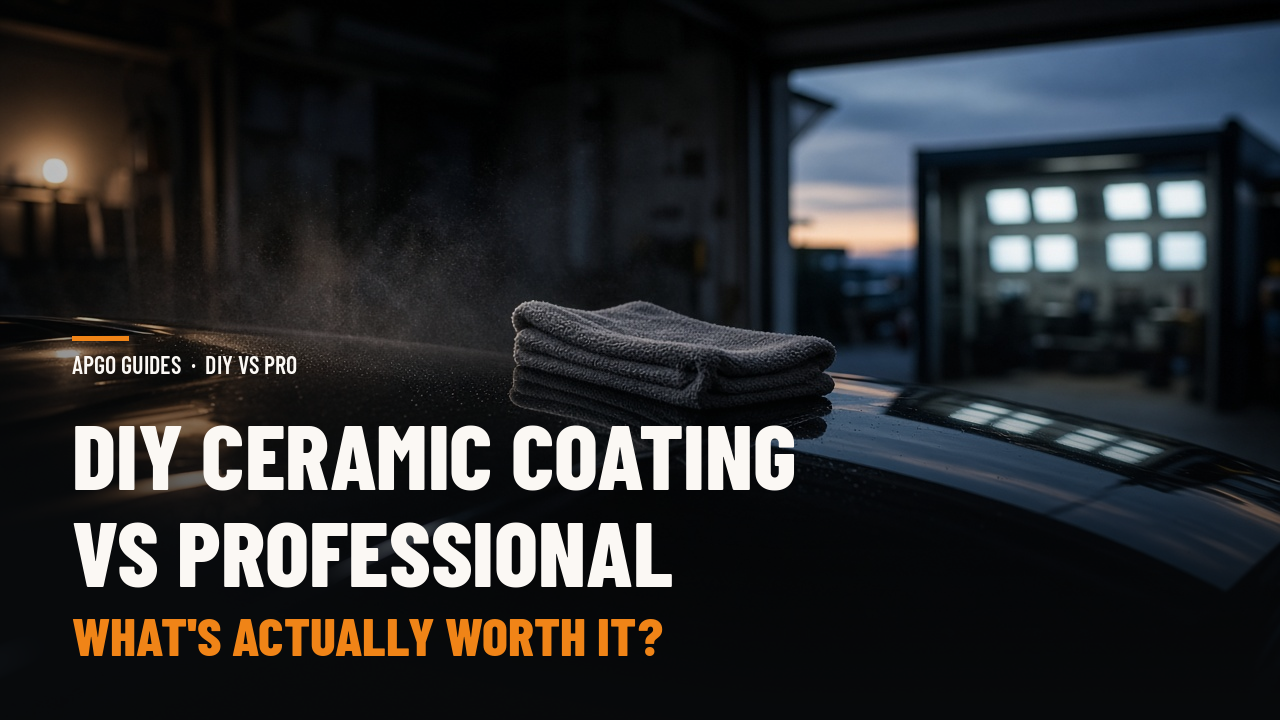
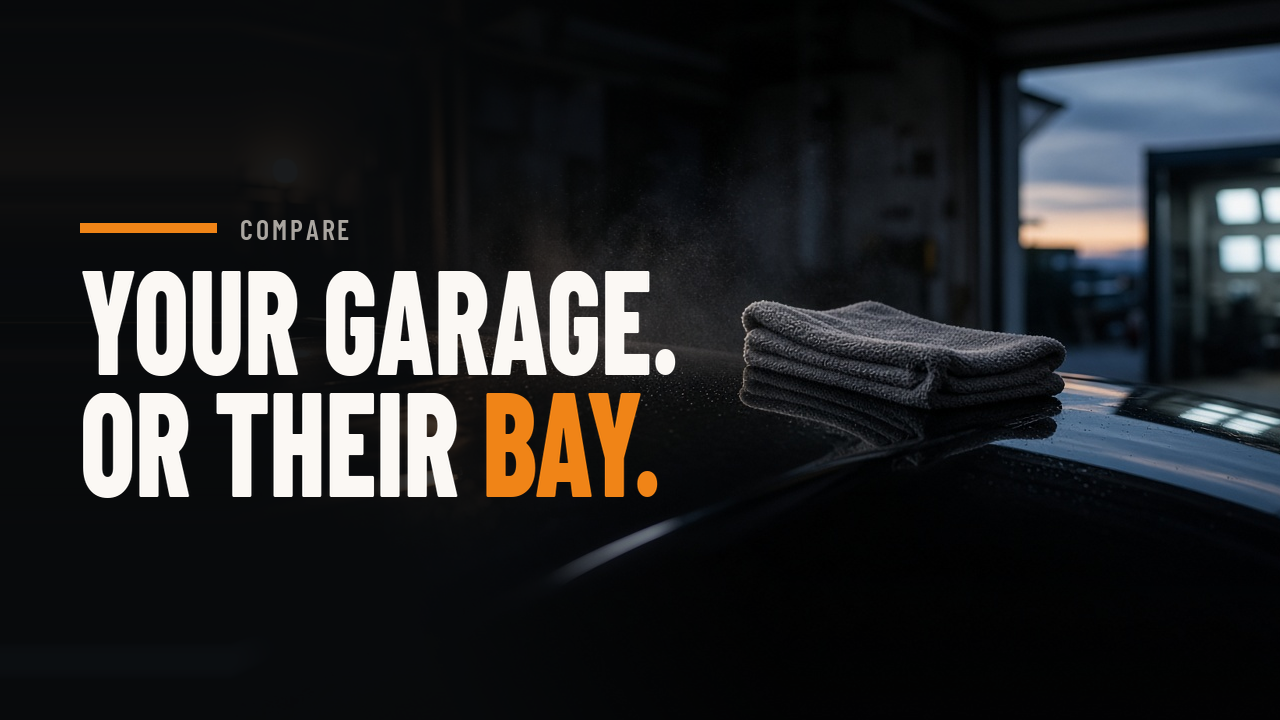
Remove hero overlay mode, update hero images with baked-in titles
- Revert ArticleHead.js to pre-PR #15 behavior (single H1 in head area, standard hero figure)
- Remove .us-hero-overlay* CSS rules from us.css
- Copy new titled hero images:
  - diy-vs-pro-hero-title.png (overwrites existing, 504133 bytes)
  - auto-wash-hero-title.png (new file, 646376 bytes)
- Delete diy-vs-pro-hero.png (clean no-text version)
- Update diy-ceramic-coating-vs-professional page:
  - Remove heroOverlayTitle prop
  - Use COVER constant for heroSrc, og:image, and articleLd image
- Update auto-wash page COVER to auto-wash-hero-title.png
- Update RelatedGuides CARDS to use new titled images
- Update guides index page card image reference

All guide pages retain exactly one <h1>. Old auto-wash-hero.png left in place for CDN cache compatibility.

diff --git a/components/us/guides/ArticleHead.js b/components/us/guides/ArticleHead.js
@@ -7,9 +7,7 @@ import OnThisPage from "./OnThisPage";
 // `tag` is the big Condensed word (string or nodes for the "DRY / WET" compound);
 // `tagColor` colors it when the tag is a single word.
 // `heroSrc`, `heroAlt`, `heroCaption` render a 16:9 cover image after the author row, before TOC.
-// `heroOverlayTitle` (boolean): when true, renders the hero image after the tag row with H1 overlaid at bottom-left.
-// On viewports below 720px, H1 shows as normal text above the image instead of overlaid.
-export default function ArticleHead({ gradient, crumb, tag, tagColor, tagLabel, title, lede, readTime, heroSrc, heroAlt, heroCaption, toc, heroOverlayTitle }) {
+export default function ArticleHead({ gradient, crumb, tag, tagColor, tagLabel, title, lede, readTime, heroSrc, heroAlt, heroCaption, toc }) {
   return (
     <section style={{ background: gradient, borderBottom: `1px solid ${color.hairline}` }}>
       <div
@@ -59,33 +57,20 @@ export default function ArticleHead({ gradient, crumb, tag, tagColor, tagLabel, 
             {tagLabel}
           </span>
         </div>
-        {heroOverlayTitle && heroSrc ? (
-          <div className="us-hero-overlay">
-            <h1 className="us-hero-overlay-h1">{title}</h1>
-            <figure style={{ margin: 0, borderTop: `4px solid ${color.orange}` }}>
-              <img
-                src={heroSrc}
-                alt={heroAlt}
-                style={{ display: "block", width: "100%", aspectRatio: "16/9", objectFit: "cover" }}
-              />
-            </figure>
-          </div>
-        ) : (
-          <h1
-            style={{
-              margin: 0,
-              fontFamily: CONDENSED,
-              fontWeight: 800,
-              fontSize: "clamp(44px,7vw,88px)",
-              lineHeight: 0.88,
-              textTransform: "uppercase",
-              textWrap: "balance",
-              maxWidth: 900,
-            }}
-          >
-            {title}
-          </h1>
-        )}
+        <h1
+          style={{
+            margin: 0,
+            fontFamily: CONDENSED,
+            fontWeight: 800,
+            fontSize: "clamp(44px,7vw,88px)",
+            lineHeight: 0.88,
+            textTransform: "uppercase",
+            textWrap: "balance",
+            maxWidth: 900,
+          }}
+        >
+          {title}
+        </h1>
         <p
           style={{
             margin: 0,
@@ -126,7 +111,7 @@ export default function ArticleHead({ gradient, crumb, tag, tagColor, tagLabel, 
           </span>
           <span style={{ fontSize: 13, color: color.tertiary }}>Updated Sep 2026 · {readTime}</span>
         </div>
-        {heroSrc && !heroOverlayTitle && (
+        {heroSrc && (
           <figure style={{ margin: 0 }}>
             <img
               src={heroSrc}

diff --git a/app/(us)/us/guides/diy-ceramic-coating-vs-professional/page.js b/app/(us)/us/guides/diy-ceramic-coating-vs-professional/page.js
@@ -13,8 +13,7 @@ const H1 = "DIY Ceramic Coating vs Professional: What’s Actually Worth It?";
 const CRUMB = "DIY vs pro coating";
 const LEDE =
   "DIY spray coating buys a redoable afternoon at home; a pro shop buys bay time and a longer package. Compare time, cost, and effort before you choose.";
-const HERO = asset("generated/diy-vs-pro-hero.png");
-const HERO_TITLE = asset("generated/diy-vs-pro-hero-title.png");
+const COVER = asset("generated/diy-vs-pro-hero-title.png");
 const HERO_ALT = "Clean dark car paint with a microfiber towel in a home garage at dusk, with a professional detailing bay lit up in the distance";
 const INLINE_IMAGE = asset("generated/diy-afternoon-vs-pro-bay.png");
 
@@ -26,7 +25,7 @@ export const metadata = {
     title: H1,
     description: LEDE,
     url: routes.diyVsPro,
-    images: [HERO_TITLE],
+    images: [COVER],
   },
 };
 
@@ -118,7 +117,7 @@ export default function DiyVsProPage() {
     <div style={{ minHeight: "100vh", background: color.bg }}>
       <JsonLd
         data={[
-          articleLd({ headline: H1, description: LEDE, image: HERO_TITLE, route: routes.diyVsPro }),
+          articleLd({ headline: H1, description: LEDE, image: COVER, route: routes.diyVsPro }),
           breadcrumbLd([{ name: "Home", route: routes.home }, { name: "Guides", route: routes.guides }, { name: CRUMB }]),
         ]}
       />
@@ -133,9 +132,8 @@ export default function DiyVsProPage() {
           title={H1}
           lede={LEDE}
           readTime="6 min read"
-          heroSrc={HERO}
+          heroSrc={COVER}
           heroAlt={HERO_ALT}
-          heroOverlayTitle
         />
 
         <ArticleBody toc={TOC}>

diff --git a/app/(us)/us.css b/app/(us)/us.css
@@ -160,32 +160,3 @@ a:hover .us-btn-outline, .us-btn-outline:hover { background: #F08417; color: #08
   *, *::before, *::after { transition: none !important; animation: none !important; }
   html { scroll-behavior: auto; }
 }
-
-/* Hero overlay title: single H1, positioned over the hero image on >=720px, above it on mobile. */
-.us-hero-overlay {
-  position: relative;
-}
-.us-hero-overlay-h1 {
-  margin: 0;
-  font-family: var(--font-barlow-condensed), "Barlow Condensed", system-ui, sans-serif;
-  font-weight: 800;
-  text-transform: uppercase;
-  color: #FBF8F4;
-  position: absolute;
-  left: clamp(20px, 3vw, 40px);
-  bottom: clamp(20px, 3vw, 40px);
-  max-width: 70%;
-  font-size: clamp(36px, 5.2vw, 64px);
-  line-height: 0.9;
-  z-index: 1;
-}
-@media (max-width: 719px) {
-  .us-hero-overlay-h1 {
-    position: static;
-    max-width: 900px;
-    font-size: clamp(44px, 7vw, 88px);
-    line-height: 0.88;
-    margin-bottom: 20px;
-    text-wrap: balance;
-  }
-}

diff --git a/components/us/guides/RelatedGuides.js b/components/us/guides/RelatedGuides.js
@@ -55,7 +55,7 @@ export const CARDS = {
   },
   autoWashCoating: {
     href: routes.autoWashCoating,
-    img: asset("generated/auto-wash-hero.png"),
+    img: asset("generated/auto-wash-hero-title.png"),
     label: "Wash",
     labelColor: color.orange,
     title: "Does an Automatic Car Wash Remove Ceramic Coating?",
@@ -69,7 +69,7 @@ export const CARDS = {
   },
   diyVsPro: {
     href: routes.diyVsPro,
-    img: asset("generated/diy-vs-pro-hero.png"),
+    img: asset("generated/diy-vs-pro-hero-title.png"),
     label: "Compare",
     labelColor: color.orange,
     title: "DIY Ceramic Coating vs Professional",

diff --git a/app/(us)/us/guides/does-an-automatic-car-wash-remove-ceramic-coating/page.js b/app/(us)/us/guides/does-an-automatic-car-wash-remove-ceramic-coating/page.js
@@ -12,7 +12,7 @@ const TITLE = "Does an Automatic Car Wash Remove Ceramic Coating?";
 const CRUMB = "Auto wash & coating";
 const LEDE =
   "An automatic wash rarely strips spray coating in one pass—but brushes, strong soap, and repeat friction wear it down sooner. Compare tunnel risk vs a gentler hand wash.";
-const COVER = asset("generated/auto-wash-hero.png");
+const COVER = asset("generated/auto-wash-hero-title.png");
 const INLINE_COMPARE = asset("generated/auto-wash-vs-hand-wash.png");
 
 export const metadata = {

diff --git a/app/(us)/us/guides/page.js b/app/(us)/us/guides/page.js
@@ -359,7 +359,7 @@ export default function GuidesPage() {
                 }}
               >
                 <img
-                  src={asset("generated/diy-vs-pro-hero.png")}
+                  src={asset("generated/diy-vs-pro-hero-title.png")}
                   alt=""
                   style={{ width: "100%", aspectRatio: "16/10", objectFit: "cover", display: "block" }}
                 />
